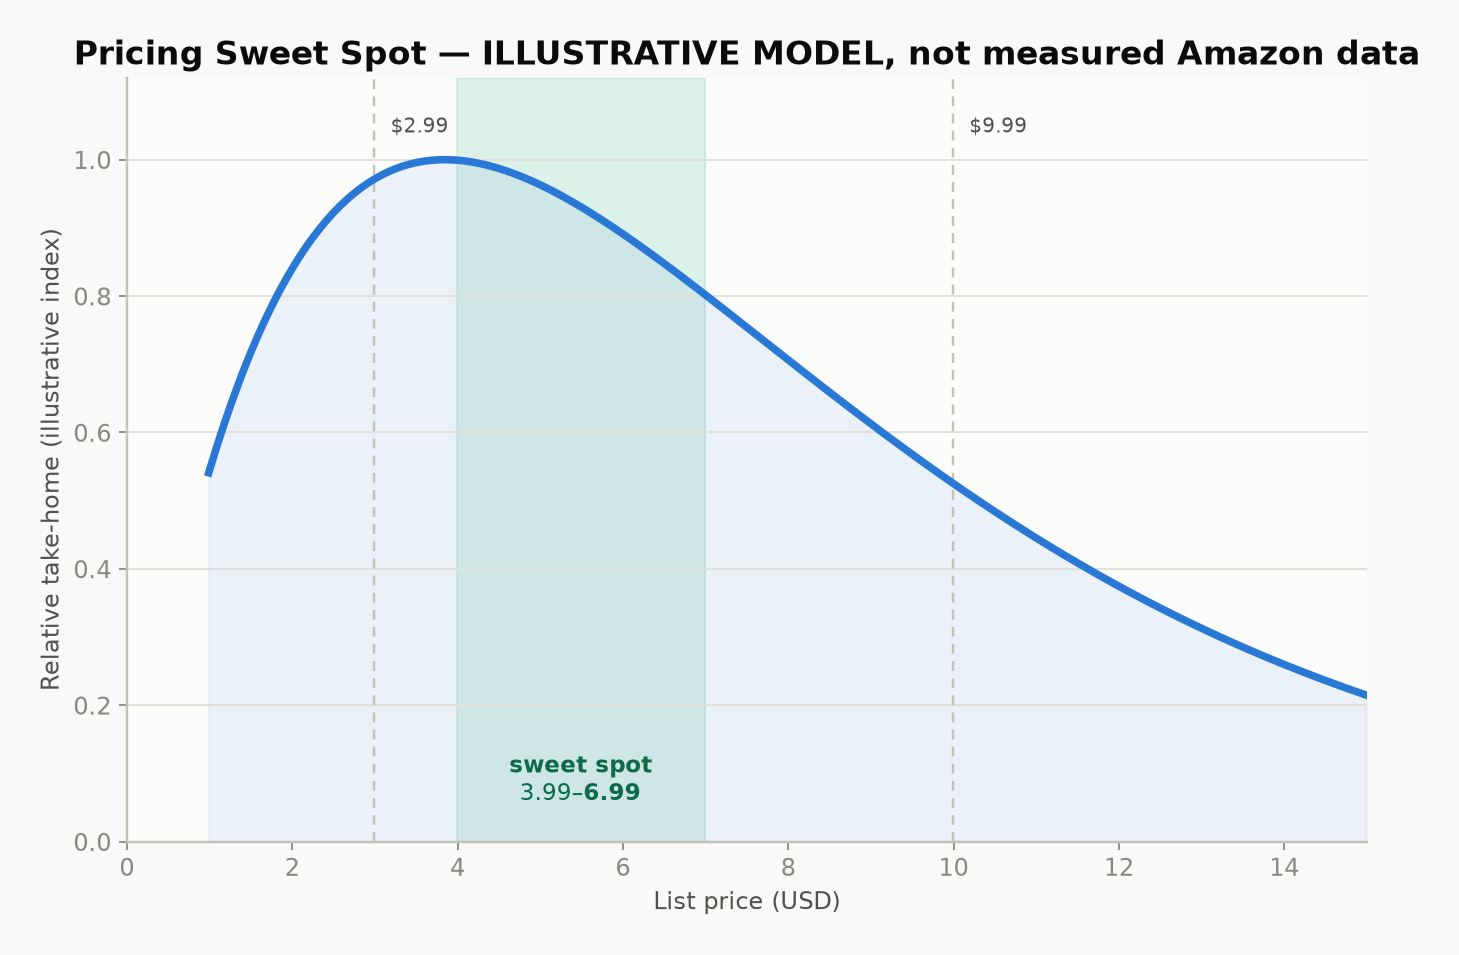
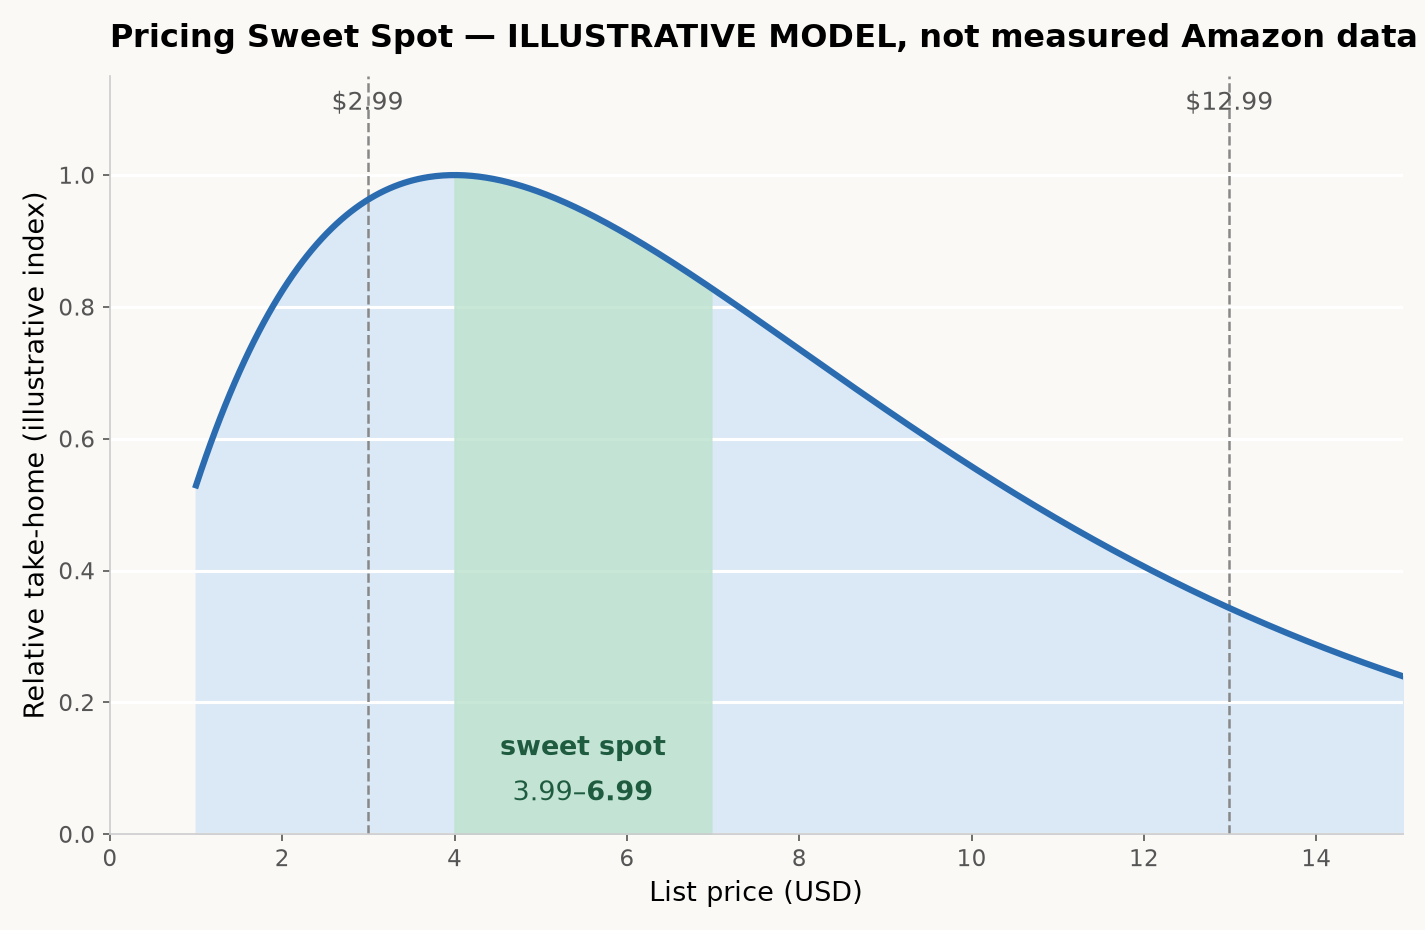
Fix mean-review findings: stale figure, dead cross-refs, sourcing
- Regenerate Figure 8.1 (Chapter 8) with the corrected $12.99 royalty
  ceiling; it still showed the old $9.99 boundary after the rest of
  the book was fixed.
- Fix "A Closing Word"'s stale "fifteen chapters" to seventeen.
- Normalize Chapter 16's structure to match the rest of the book:
  drop Roman-numeral heading prefixes (I.-XII.), replace two internal
  "§VI"/"§VII" cross-references with plain language.
- Trim Chapter 16's AI-disclosure paragraph, which duplicated
  Chapter 17's "primary complete treatment" of the same rule with the
  same citation, to a brief pointer instead.
- Remove two named-but-unlinked sources (a named industry consultant
  and a named blog) from Chapter 16's field reports; restated the same
  points generically instead of citing an unverified specific.
- Point Appendix A's AI-disclosure checklist item at Chapter 17 as
  well as Chapter 4.
- Add a short framing note at the top of Chapter 16 acknowledging its
  field reports lean on fiction (where public data is more available)
  while the mechanics apply to nonfiction the same way.
- Add a worked example to Chapter 3 (applying the four category-research
  checks to a hypothetical category) and Chapter 12 (Select vs. wide
  KU-page-read arithmetic) — previously the only two chapters with no
  worked example or case study.

Claude-Session: https://claude.ai/code/session_01QobmZu7YSxCbZnnRen5Ff6

diff --git a/How to Publish and Make Good Money/manuscript/How to Publish and Make Good Money.md b/How to Publish and Make Good Money/manuscript/How to Publish and Make Good Money.md
@@ -166,6 +166,18 @@ Look at who’s publishing in the category. A subcategory dominated by three or 
 
 Read the one- and two-star reviews on the current bestsellers in your topic, not the five-star ones. Five-star reviews tell you the book worked; one- and two-star reviews tell you exactly what it left out, explained by someone who wanted it to be there. That gap is your outline.
 
+> Worked example. Applying all four checks to one hypothetical category — a beginner’s guide to a specific hobby:
+
+Best Sellers vs. Hot New Releases: the all-time top 20 are dominated by three books published 6–10 years ago, each with 8,000+ reviews. Hot New Releases for the same category shows two books published in the last 90 days already at 40–60 reviews — live demand, not fossilized demand.
+
+Review count vs. publication date: one of those new entrants has 55 reviews after 10 weeks, roughly 5–6 a week — livelier than the older incumbents, who now average under 20 a week each.
+
+Who’s publishing: four different single-book authors published in the last 18 months sit alongside the three long-established incumbents in that top 20 — fragmented, not a closed shop.
+
+One- and two-star reviews on the incumbents: a specific complaint — no troubleshooting section for humid climates — recurs across dozens of reviews on all three bestsellers, and none of them has fixed it.
+
+None of that guarantees a sale. It tells you the category has live buyers, room for a new entrant, and one specific, checkable gap a new book could lead with in its own subtitle and description (Chapter 7) — the difference between “I think people want this” and “here’s what twenty minutes of browsing this exact category actually showed me.”
+
 ### Write to a shelf, not into a void
 
 Publishers call this “writing to a shelf” — knowing, before you write a word, which existing shelf your book would sit on, and what a reader browsing that shelf already expects. It sounds like it constrains creativity; in practice it’s the opposite of chasing a trend. Trend-chasing means noticing something is popular this month and racing to publish before the wave passes — by the time a trend is visible on Amazon’s charts, a meaningful number of other authors have already seen it too, and the category fills up fast. Writing to a shelf means picking a category with durable, structural demand (a persistent problem, a persistent hobby, a persistent stage of life) and writing the best specific answer to a specific reader’s specific question, rather than the broadest possible book that vaguely covers a popular topic.
@@ -528,6 +540,14 @@ Going wide means distributing the ebook to multiple retailers and library platfo
 
 A reasonable default for a new author with no existing data: enroll the first book (or series) in Select for one 90-day term, watch the actual page-read numbers against what wide distribution would plausibly have earned, and make the next term’s decision from real data instead of a genre-wide generalization.
 
+> Worked example. A 300-KENPC-page nonfiction ebook at $4.99 (net 70% royalty ≈ $3.31/copy after the delivery fee, per Chapter 2), against 300 reader engagements over one 90-day term:
+
+All 300 as direct purchases, wide distribution, comparable net across stores: 300 × $3.31 ≈ **$993** for the term.
+
+The same 300 readers under Select, but 120 of them read the book in full through Kindle Unlimited instead of buying it (at Chapter 2’s illustrative $0.0045/page rate): 180 direct sales (180 × $3.31 ≈ $595.80) plus 120 full KU reads (120 × 300 pages × $0.0045 ≈ $162) ≈ **$757.80**.
+
+In this illustration, wide comes out ahead per reader, because a full KU read at $1.35 is worth less than a $3.31 sale. Select only wins the comparison when it brings in readers who would not have bought at $4.99 at all — a number this book cannot supply for your specific book, your genre, or your audience. That missing number is exactly why the advice above is to run one real term and read your own dashboard, not to trust this arithmetic, or anyone else’s, for a decision this dependent on who your actual readers are.
+
 > **Certainty, labeled.** Kindle Unlimited tends to matter most for genres with heavy series readers who consume books quickly (romance, fantasy, thriller fiction, in particular) and matters less for many nonfiction categories, where a reader may buy once rather than subscribe-and-binge. That is a widely observed pattern among authors, not a KDP-published rule — “tends to” is not a guarantee for your specific book, which is exactly why testing one real term beats assuming either way.
 
 ## Chapter 13: Avoiding the Traps
@@ -650,7 +670,9 @@ Amazon’s written rules are treated as constraints. Ranking talk is labeled as 
 
 > **Terms used in this chapter.** ARC: advance reader copy, sent before the book is live. KU / Select: Kindle Unlimited and KDP Select, Amazon’s borrow-and-subscription program. ASIN: the product ID a book receives on publication — no review can post before it exists. EPUB: the reflowable file format every e-reader except Kindle actually wants.
 
-### I. Selling a few copies is not a business
+A note on the examples ahead: the public field reports this chapter can actually check — named authors, real numbers, a real launch date — mostly come from fiction, because fiction authors publish that kind of detail far more often than nonfiction authors do. The mechanics don’t care: a review-eligibility rule, a royalty band, and a launch-week concentration effect work identically on a novel and a how-to guide. Read “book one” and “series” below as your nonfiction title and your line of related titles (Chapter 14) — the arithmetic transfers directly, even where the example doesn’t.
+
+### Selling a few copies is not a business
 
 Most debut Kindle books do sell. They sell to the author, a handful of acquaintances, and whoever stumbles in during the week the title is new. Then the week ends. Best Sellers Rank slides. Ads, if they ran at all, start costing more than they return. The author concludes that “self-publishing doesn’t pay” after sampling a market that never saw a trustworthy product page.
 
@@ -662,11 +684,11 @@ The rest of this book is the sequence that makes those two sentences operational
 
 > **Key takeaway:** Reviews and price are not marketing decoration on top of a finished book — they are the two levers that decide whether a finished book becomes a business. Get the sequence right (proof before spend, price for the band and for the catalog) and everything else in this chapter is mechanics.
 
-### II. Where the money actually comes from
+### Where the money actually comes from
 
 #### Not from the first ten cousins
 
-Friends and family can put a number on a dashboard. They cannot put you in “Customers who bought this also bought.” They cannot teach Amazon who the book is for. They often cannot review without violating Community Guidelines — the $50 spend-history rule in §VI is the specific trap. Count them as a rounding error. If the business plan requires them, there is no business plan.
+Friends and family can put a number on a dashboard. They cannot put you in “Customers who bought this also bought.” They cannot teach Amazon who the book is for. They often cannot review without violating Community Guidelines — the $50 spend-history rule described later in this chapter is the specific trap. Count them as a rounding error. If the business plan requires them, there is no business plan.
 
 #### From conversion on paid and organic traffic
 
@@ -680,7 +702,7 @@ A standalone debut has one chance to collect money: that purchase or those pages
 
 Unlimited complicates the picture in a useful way. A borrow counts commercially at the door. Pages after that pay from a pool. A book that converts borrows but loses readers at chapter two is a leak. Advance readers who finish — or who stop and say why — are cheaper than learning that leak from a month of ads.
 
-### III. The first-review problem, restated as cash flow
+### The first-review problem, restated as cash flow
 
 Launch week is the only cheap moment in which your own list, incoming advance-copy posts, and any small test of ads can occupy the same window. Amazon weights what happened recently. Spend that window on a page with no testimony and you convert poorly. Spend it on a page that already contains a few independent paragraphs and more of the same visitors become units. Units are what the store knows how to extend.
 
@@ -690,7 +712,7 @@ A Select free day is not a substitute. Free downloads do not count as paid sales
 
 > **Certainty, labeled.** If Amazon never uses review count internally, shoppers still see the empty module, newsletter editors still use it as a gate, and ads still die on untrusted pages. The cash-flow case does not require an occult coefficient.
 
-### IV. Price: what KDP will pay you
+### Price: what KDP will pay you
 
 On Amazon.com, the 70 percent ebook option applies when the list price sits in the published band — $2.99 to $12.99 after the July 2026 expansion — and you have actually selected that option. Outside the band you earn 35 percent. Delivery cost (on the order of $0.15 per megabyte of the file) is deducted under 70 percent and not under 35 percent. A lean novel file makes 70 percent unambiguously better inside the band. An illustrated file can nibble the advantage; check the size.
 
@@ -712,7 +734,7 @@ A worked contrast for a heavier file: a 20 MB illustrated nonfiction title at $9
 
 Print is a separate ledger. Paperback royalties are list minus print cost times the print rate, which Amazon has tightened in recent years on lower-priced paperbacks. Do not set ebook price by paperback vanity. Do not set paperback price so low the print cost eats it — print cost does not care how proud you are of the cover.
 
-### V. Initial price versus later price
+### Initial price versus later price
 
 Skip to whichever subsection matches where you actually are — a debut with nothing behind it, or a series with at least one sequel live. The math does not agree with itself across the two cases, on purpose.
 
@@ -757,13 +779,13 @@ $0.99 on book one during a new-release window in the series is the Select-compat
 
 If the title is in Select, a $0.99 or free window still pays you when KU readers actually read. That makes a launch discount less suicidal than it is outside Select — provided people finish. If they do not finish, you have paid for sampling that produced neither royalty nor a review. Advance copies exist partly to find that out privately.
 
-### VI. The constraint that keeps the money
+### The constraint that keeps the money
 
 Amazon’s help text: you may give a free or discounted copy; you may not require a review, steer it, or add a gift. Friends, employees, and author-for-author swaps sit outside the fence. Unverified advance-copy reviews still display. They simply lack the purchase badge. Chasing the badge with refunds is how listings get cleaned.
 
 Enforcement has only gotten more aggressive, not less: Amazon has spent the last few years pulling flagged reviews — incentivized, traded, or machine-written — and closing accounts on both sides of the trade. One genuine, unsolicited paragraph from a stranger now outlives a hundred purchased five-star ratings that vanish in the next sweep. Confirm the current Community Guidelines before you build a roster; this is the part of the rulebook that moves the most.
 
-A second, separate rule now applies to the manuscript itself, not just its reviews. KDP requires disclosure of AI-*generated* content — text, images, or translations an AI tool produced, even if you edited the result afterward — but not of AI-*assisted* content, where you wrote it yourself and a tool only edited, refined, or helped you brainstorm. The distinction is Amazon’s to draw, not this book’s judgment call: get it wrong and the risk is the listing coming down. Disclosure happens privately at upload and never appears on the product page, so a reader cannot tell either way — which is exactly why the honesty is owed to Amazon, not performed for a shopper. See [KDP Help: Content Guidelines](https://kdp.amazon.com/en_US/help/topic/G200672390) (G200672390) before you check either box.
+A second, separate rule applies to the manuscript itself, not just its reviews: KDP requires disclosure of AI-generated content, on a distinction that is Amazon’s to draw, not an author’s judgment call. Chapter 17 states that rule in full, with the exact line KDP draws between disclosed and undisclosed use — read it before you check either box on the AI-content questionnaire.
 
 #### Who is allowed to post on Amazon
 
@@ -792,7 +814,7 @@ It will not always be a good one. Amazon does not remove a review for being crit
 
 Do not reply to it. An author’s public reply sits permanently under the review, and a defensive one reads worse than the original star rating ever did. If the review names a real production fault — a broken table, a missing chapter, a formatting error — fix the file and move on; the fix helps the next hundred readers more than an argument with one of them ever would.
 
-A single candid three-star review that names a specific gripe is, by most working authors’ own account, worth more to a cold shopper than another five-star repeating “loved it.” A page of nothing but superlatives reads like a page nobody dared to be honest on. Recruit for honest reactions, not for unanimous ones; the ARC form in §VII already asks for exactly that.
+A single candid three-star review that names a specific gripe is, by most working authors’ own account, worth more to a cold shopper than another five-star repeating “loved it.” A page of nothing but superlatives reads like a page nobody dared to be honest on. Recruit for honest reactions, not for unanimous ones; the ARC form described below already asks for exactly that.
 
 #### Running the roster without breaking the rule
 
@@ -811,7 +833,7 @@ BookFunnel and StoryOrigin exist so you do not teach this one reader at a time.
 
 > **Key takeaway:** Every rule in this section exists to answer one question honestly — did a real reader choose to say this? A free copy, a spend threshold, a disclosure checkbox, and a delivery method are all just plumbing in service of that one fact. Optimize the plumbing all you want; never touch the fact itself.
 
-### VII. The free pipeline, now as a profit tool
+### The free pipeline, now as a profit tool
 
 Open the form the week the draft hits KDP. Aim for thirty to fifty people if you want something near ten posts. Send two to three weeks before live. Ask for Amazon reviews only when the form exists. Paid matching services, if you use one, prefer a runway of about forty days and a title that is not already stale.
 
@@ -835,13 +857,13 @@ Where the link goes: Facebook group search for Indie Fantasy Addicts ARC and Bet
 
 Recruit from a list first, then your own channels, then groups that exist for advance copies. Screen for genre and a real profile. Tag Core / Soft / Out after the campaign. Core is invited next time because they posted, not because they awarded fireworks. Measure downloads over sends, posts over sends, and Core next time over Core this time. Vanity retention of people who never opened the file is how catalogs stay hobbies.
 
-### VIII. What to pay for — only if it raises expected value
+### What to pay for — only if it raises expected value
 
 Pay to fill a hole in the funnel, not to soothe anxiety. No names: a capped matching service (BookSirens Promote or Booksprout). Kindle tickets eating the week: BookFunnel’s mail tool. Desire to trade newsletters later: StoryOrigin. Librarians: NetGalley, which will not print ten Amazon reviews on a budget. Two finder networks on one title is waste — the same reader does not convert twice as fast for being found by both of them.
 
 A bounded BookSirens experiment — listing fee plus a few dollars per reader they find who downloads, capped at twenty-five — is cheaper than a month of ads onto an empty page. You are buying downloads from people who asked to read, not guaranteed sentences. The review remains optional. That is the point.
 
-### IX. After the listing can bear traffic
+### After the listing can bear traffic
 
 Select is a ninety-day exclusive that pays Unlimited pages and offers either five free days or a Countdown. Free days after proof, announced to someone, can be acquisition. Free days before proof, announced to no one, are a tree in an empty forest. A Countdown keeps a price and a 70 percent royalty if you remain in band; it is for books that already sell.
 
@@ -849,7 +871,7 @@ Wide, if you decline Select: Draft2Digital to other stores and library vendors. 
 
 Ads belong after the module is no longer empty and after price sits where you intend to live. Otherwise you are paying to demonstrate that untrusted pages do not convert — a lesson this book was meant to spare you.
 
-### X. A sequence that is allowed to mention money
+### A sequence that is allowed to mention money
 
 ![The launch timeline as a pipeline: upload week, 2-3 weeks out, live week, weeks 3-6, and book 2 in hand, each with its money reason](../figures/fig01_launch_timeline.png)
 
@@ -869,7 +891,7 @@ Ads belong after the module is no longer empty and after price sits where you in
 
 > The book is live. Optional honest review: https://www.amazon.com/review/create-review?asin=YOURASIN
 
-### XI. Field reports — what published accounts actually show
+### Field reports — what published accounts actually show
 
 > **Certainty, labeled.** Blogs and author interviews are not laboratories. They are still better than folklore, provided you notice who already had a list before the launch you are reading about. The pattern that repeats is not magic — it is proof on the page, a price that can move, and something to sell after book one.
 
@@ -913,11 +935,11 @@ Sell’s $3.99 hold is this alternative. So is the Kboards report of raising to 
 
 ##### Promo stacking after proof
 
-Freebooksy, Bargain Booksy, Fussy Librarian, and stacked partners are how many midlist fiction authors create a second spike. Ricci Wolman of Written Word Media has described stacking several lists on a planned price cut rather than lighting a silent free day. Those sites often want a review floor. That is the hinge: ARCs first, stack later.
+Freebooksy, Bargain Booksy, Fussy Librarian, and stacked partners are how many midlist fiction authors create a second spike. The commonly reported practice is stacking several lists on one planned price cut rather than lighting a silent free day. Those sites often want a review floor. That is the hinge: ARCs first, stack later.
 
 ##### Wide and slow
 
-Plans published via Jane Friedman’s site, including first-year notes from authors building across several stores, treat success as steady doubling rather than an Amazon spike. Libraries and Apple promotions via Draft2Digital become part of the engine. Reviews still matter on every storefront. Select free days and permafree book one cannot share a title. Different calendar, real business.
+Published first-year accounts from authors building across several stores at once treat success as steady doubling rather than an Amazon spike. Libraries and Apple promotions via Draft2Digital become part of the engine. Reviews still matter on every storefront. Select free days and permafree book one cannot share a title. Different calendar, real business.
 
 ##### What the blogs get wrong
 
@@ -925,7 +947,7 @@ Some street-team posts tell you to make advance readers buy the live book so the
 
 The accounts that hold together share three facts. Someone read the book before the crowd arrived. The price either sat in the 70 percent band or was a temporary tax paid to move people into a sequel. There was a next title, a list, or both. Missing all three is how a book sells to cousins and then stops.
 
-### XII. Claims that do not survive a spreadsheet
+### Claims that do not survive a spreadsheet
 
 - That a debut should open at $0.99 to get reviews. Reviews come from people who agreed to read, not from a royalty you set on fire.
 - That $1.99 is a friendly compromise. It is often a 35 percent trap that earns less than $2.99.
@@ -1044,7 +1066,7 @@ If the goal is genuinely to build on someone else's existing work rather than yo
 
 - [ ] Tax interview (W-9 / W-8BEN / W-8BEN-E) completed and correct (Chapter 11)
 
-- [ ] AI-content disclosure answered honestly, if applicable (Chapter 4)
+- [ ] AI-content disclosure answered honestly, if applicable (Chapter 4; Chapter 17 has the full disclosure rule and the trap to avoid)
 
 - [ ] KDP Select enrollment decided on purpose, not left on autopilot (Chapter 12)
 
@@ -1100,6 +1122,6 @@ A tax professional familiar with royalty or self-employment income, for the spec
 
 ## A Closing Word
 
-Nothing in this book is complicated on its own. Royalty math is arithmetic. Keyword slots are a form field. A launch is a calendar with the same events moved closer together. What makes self-publishing hard isn’t any individual step — it’s that all fifteen chapters’ worth of steps land on one person, and it’s tempting to skip the unglamorous ones (a real editing pass, an honest category choice, the tax interview) in favor of the exciting one (hitting publish).
+Nothing in this book is complicated on its own. Royalty math is arithmetic. Keyword slots are a form field. A launch is a calendar with the same events moved closer together. What makes self-publishing hard isn’t any individual step — it’s that all seventeen chapters’ worth of steps land on one person, and it’s tempting to skip the unglamorous ones (a real editing pass, an honest category choice, the tax interview) in favor of the exciting one (hitting publish).
 
 The authors who make good money at this aren’t the ones who found a secret Amazon doesn’t want you to know. They’re the ones who did the plain, checkable, occasionally tedious work in every chapter of this book, on purpose, in order, and then did it again for the next book — because by the second time, most of it was already fixed cost, paid off. That’s the whole secret, and it was never actually a secret. Go write something worth finding.
